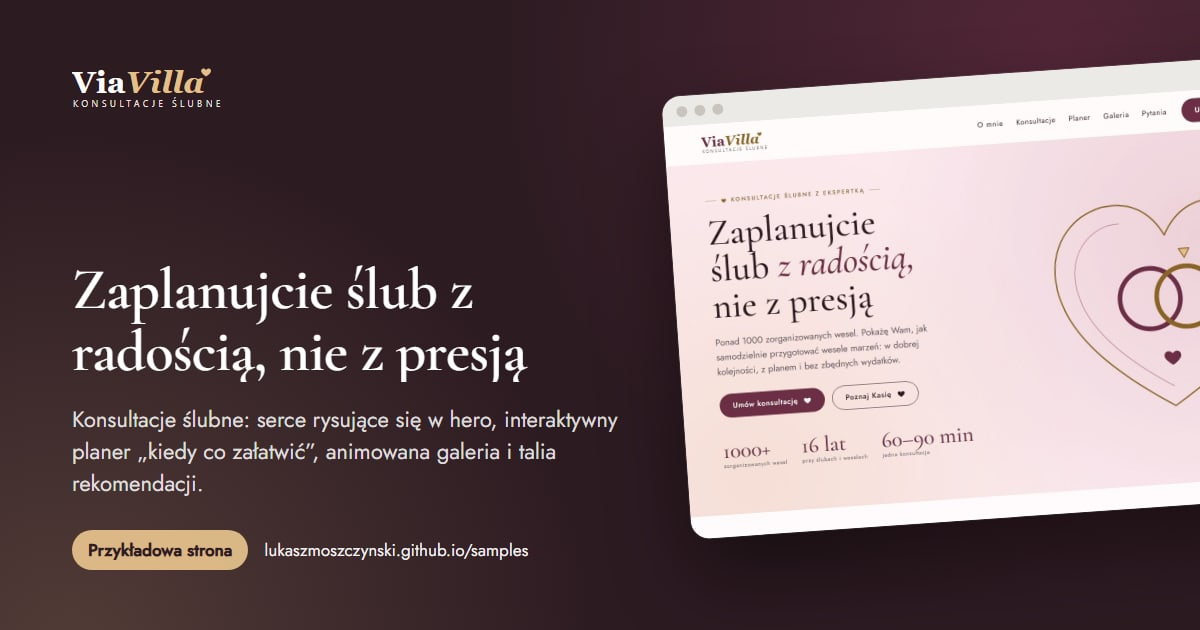
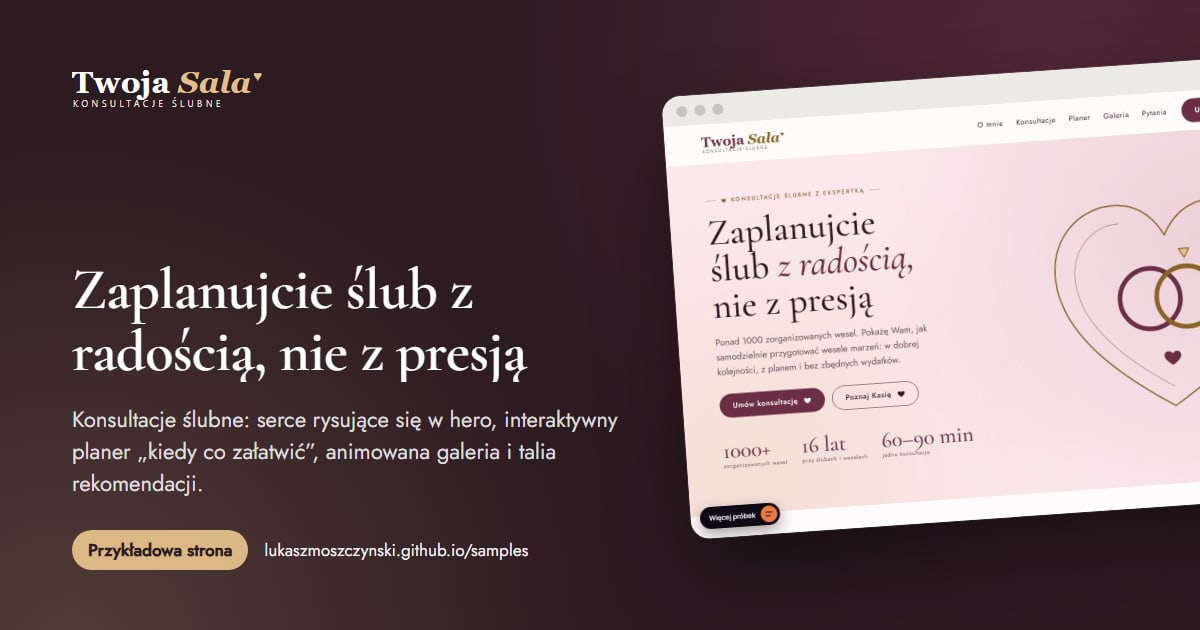
Samples index: oh!design unlisted (still online), ViaVilla renamed to generic Twoja Sala / Konsultacje ślubne, journey copy without names (we talk, we design, we program)

Changed region(s): [[0.0617, 0.0905, 0.2158, 0.1508], [0.555, 0.7841, 0.6783, 0.8746], [0.5858, 0.2111, 0.6475, 0.2413]]

diff --git a/src/components/samples-data.ts b/src/components/samples-data.ts
@@ -1,9 +1,9 @@
 // Every Astro sample for the index and the samples menu: name, summary, direction, tags, its three brand colours
-// (read from brand.css) and its link-preview image (assets/og.jpg). Newest first.
+// (read from brand.css) and its link-preview image (assets/og.jpg). Newest first; a sample with "unlisted": true stays online but is left out.
 import { readFileSync } from 'node:fs';
 import { join } from 'node:path';
 
-interface SampleMeta { slug: string; stack: string; title: string; summary?: string; direction?: string; tags?: string[]; date?: string }
+interface SampleMeta { slug: string; stack: string; title: string; summary?: string; direction?: string; tags?: string[]; date?: string; unlisted?: boolean }
 
 export interface SampleCard {
   slug: string;
@@ -39,7 +39,7 @@ export const PORTFOLIO_URL = 'https://lukaszmoszczynski.github.io/pl/';
 
 export function sampleCards(base: string): SampleCard[] {
   return Object.values(files)
-    .filter((sample) => sample.stack === 'astro')
+    .filter((sample) => sample.stack === 'astro' && !sample.unlisted)
     .sort((first, second) => (second.date ?? '').localeCompare(first.date ?? ''))
     .map((sample) => ({
       slug: sample.slug,

diff --git a/README.md b/README.md
@@ -6,7 +6,7 @@ https://lukaszmoszczynski.github.io/design-system/
 Each sample lives in `samples/<slug>/` and is published at
 `https://lukaszmoszczynski.github.io/samples/<slug>/`. The slug names the type of project.
 The index at `https://lukaszmoszczynski.github.io/samples/` (`src/pages/index.astro`) lists every sample with a live
-preview; it reads `sample.json` (`title`, `summary`, `direction`, `tags`, `date`) and the colours from `brand.css`.
+preview; it reads `sample.json` (`title`, `summary`, `direction`, `tags`, `date`) and the colours from `brand.css`. `"unlisted": true` keeps a sample online at its link but leaves it out of the index and the samples menu.
 
 ## Which stack
 
